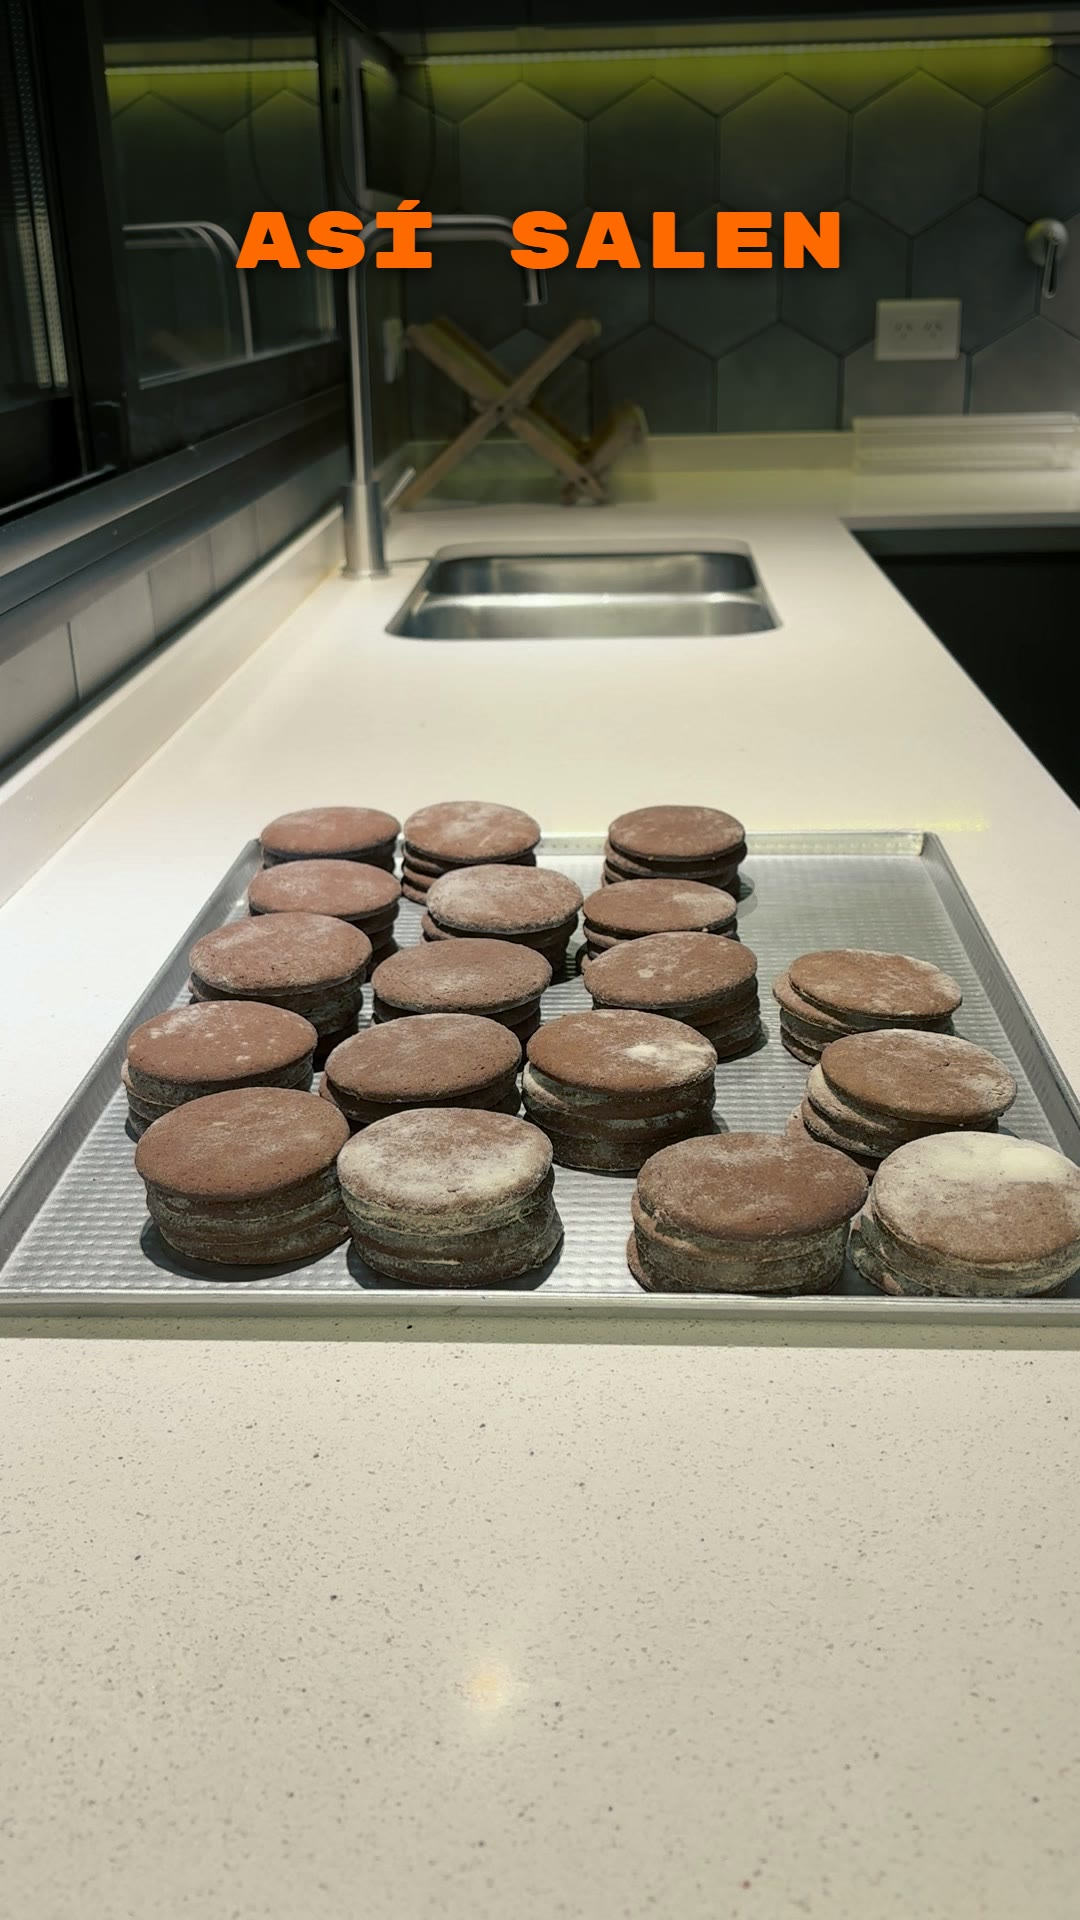
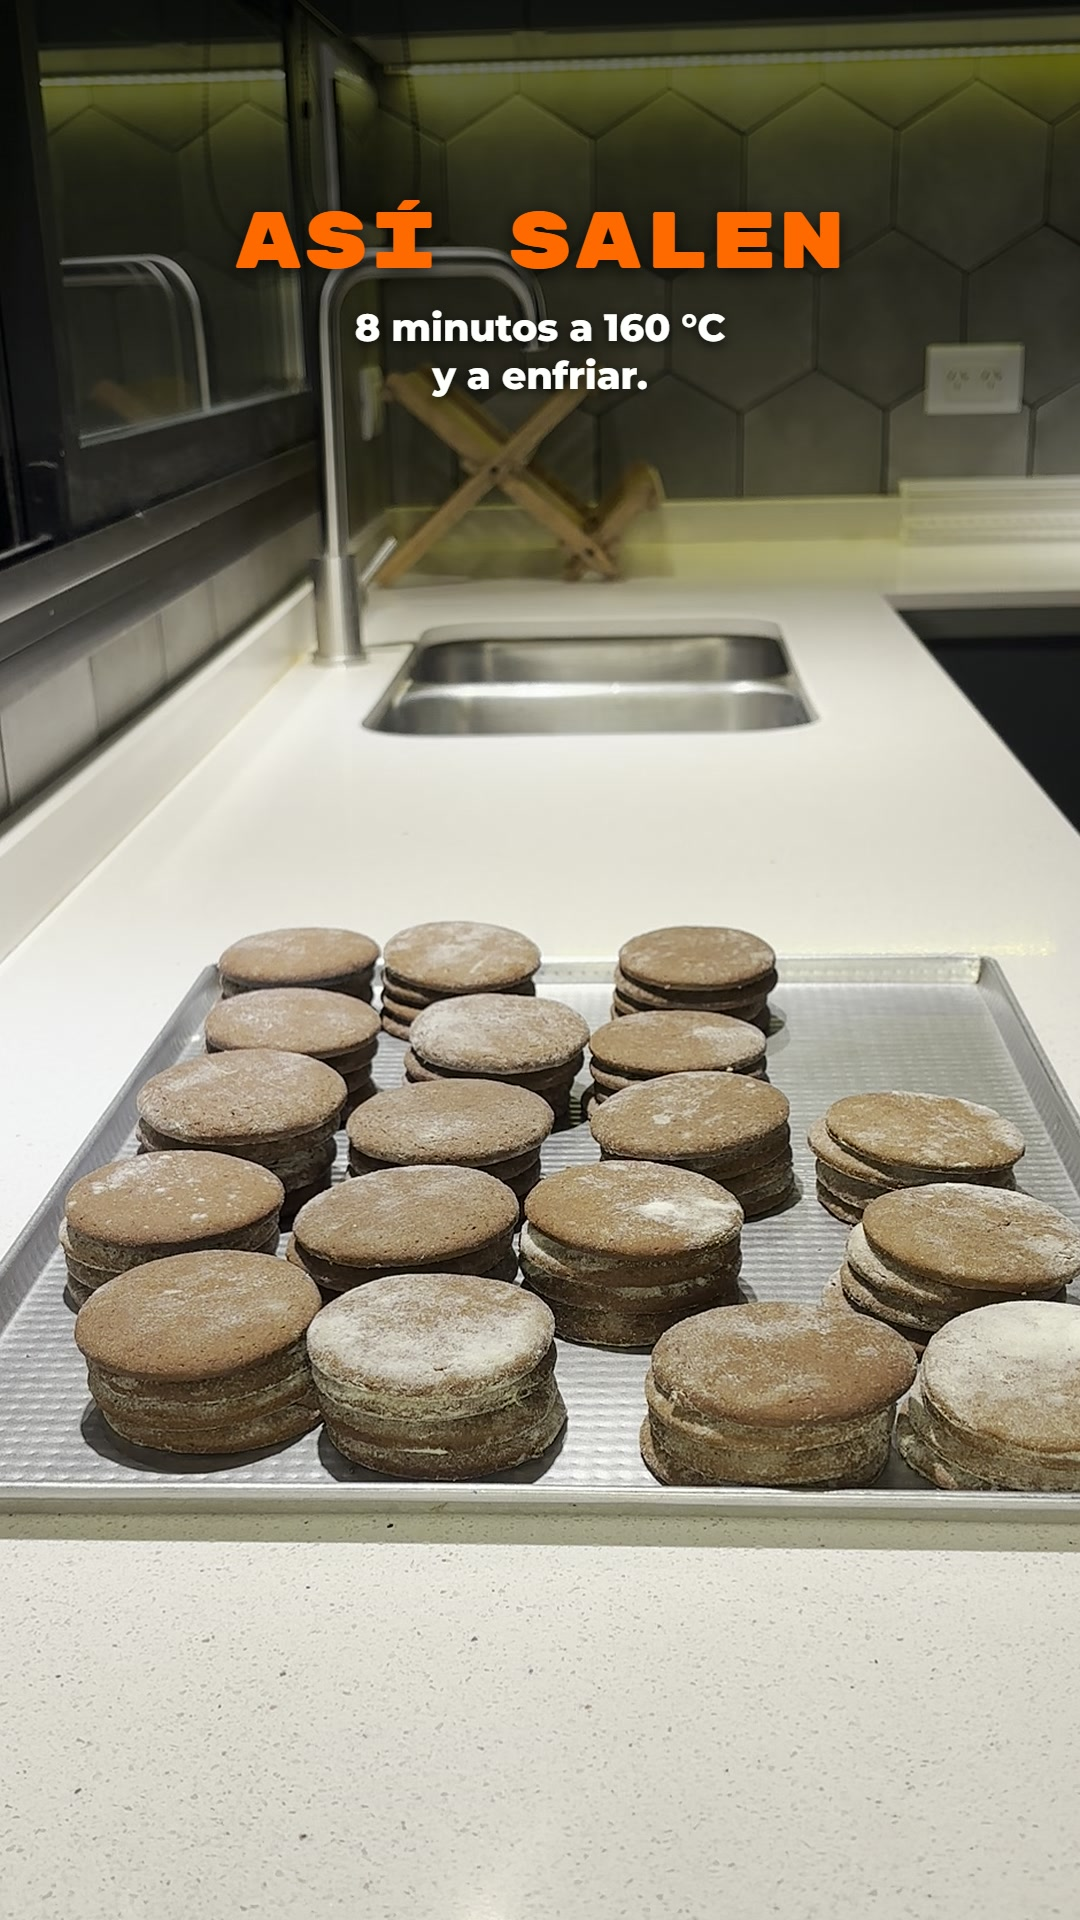
Historias: mie-11-1 y mie-11-2 rehechas (antes/después nítido de las tapas, con texto)

diff --git a/monte-riko/historias-noviembre/README.md b/monte-riko/historias-noviembre/README.md
@@ -69,8 +69,9 @@ Lo que se miró de otras marcas está en `../instagram-referentes.md`.
 
 ### Mié 11: El horno
 - `mie-11-0.jpg` (sumada el 10 de noviembre 2026, va primero, al mediodía): HOY A LAS 20:00. "El pastelero nuevo te muestra cómo se hace, paso a paso." Misma foto que `mar-10-1`, para el reel 3D que se corrió a las 20:00. Está en el repo y en Drive (no en `historias.json`). **Sticker:** cuenta regresiva a las 20:00 (opcional). Después del reel, compartilo con el texto "Así se hace, paso a paso".
-- `mie-11-1.jpg`: ASÍ ENTRAN
-- `mie-11-2.jpg`: ASÍ SALEN
+- `mie-11-1.jpg`: ASÍ ENTRAN. "Tapas de chocolate, cortadas a mano."
+- `mie-11-2.jpg`: ASÍ SALEN. "8 minutos a 160 °C y a enfriar."
+- **Rehechas el 11 de noviembre 2026:** a Tomás no le convencían. La 1 era un cuadro borroso de la bandeja entrando al horno, y la 2 tenía media placa de mesada vacía y era la misma foto de `mar-10-2`. Ahora son un par antes/después: cuadros nítidos de los videos 0460 (tapas crudas) y 0475 (tapas horneadas), con la misma mesada, recortados más cerca y con una línea de texto debajo del título. Ningún cuadro del video 0470 (la bandeja entrando al horno) sale nítido, porque la bandeja va en movimiento. Se armaron a mano (no figuran así en `historias.json`). En Drive, las viejas quedaron como "VIEJA - …".
 - `mie-11-3.jpg`: ¿CUÁNTO DULCE LE PONEMOS? **Sticker:** Barra deslizante con el emoji 🤤.
 
 ### Jue 12: Reel del relleno
